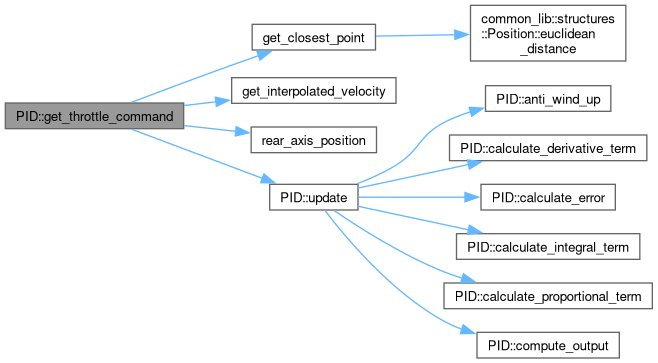
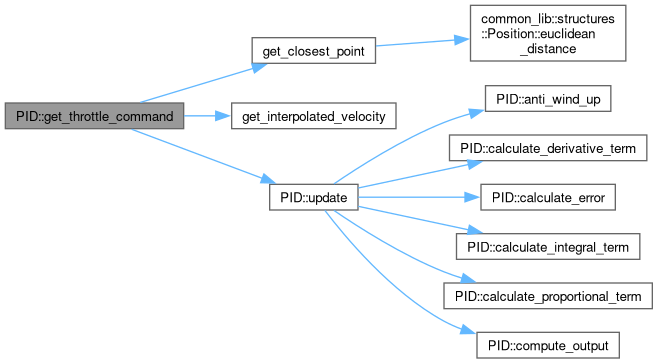
deploy: a8fbd8b8857cc7b3c33410bea2327a715390332d

diff --git a/d8/dcb/pid_8cpp_source.html b/d8/dcb/pid_8cpp_source.html
@@ -242,36 +242,34 @@ $(document).ready(function(){initNavTree('d8/dcb/pid_8cpp_source.html','../../')
 <div class="line"><a id="l00132" name="l00132"></a><span class="lineno">  132</span>  </div>
 <div class="line"><a id="l00133" name="l00133"></a><span class="lineno">  133</span>  <span class="keywordflow">if</span> (this-&gt;<a class="code hl_variable" href="../../d6/d5a/class_p_i_d.html#a7c1fc8d30d96361b38b3f6b07d4a057f">received_first_path_</a> &amp;&amp; this-&gt;<a class="code hl_variable" href="../../d6/d5a/class_p_i_d.html#ab5112bdc37a51bcdf70cd51813acbb83">received_first_state_</a> &amp;&amp; this-&gt;<a class="code hl_variable" href="../../d6/d5a/class_p_i_d.html#a4f56fcd2497d3d86e49d591743343b8b">received_first_pose_</a>) {</div>
 <div class="line"><a id="l00134" name="l00134"></a><span class="lineno">  134</span>    <a class="code hl_struct" href="../../dc/d1b/structcommon__lib_1_1structures_1_1_position.html">Position</a> vehicle_cog = <a class="code hl_struct" href="../../dc/d1b/structcommon__lib_1_1structures_1_1_position.html">Position</a>(this-&gt;<a class="code hl_variable" href="../../d6/d5a/class_p_i_d.html#a5953c6ee999d8be3eabf38df08086206">last_pose_msg_</a>.x, this-&gt;last_pose_msg_.y);</div>
-<div class="line"><a id="l00135" name="l00135"></a><span class="lineno">  135</span>    <a class="code hl_struct" href="../../dc/d1b/structcommon__lib_1_1structures_1_1_position.html">Position</a> rear_axis = <a class="code hl_function" href="../../d1/da2/control_2include_2utils_2utils_8hpp.html#aa4db0590a4eae468aa0a5ebd95003e52">::rear_axis_position</a>(vehicle_cog, this-&gt;<a class="code hl_variable" href="../../d6/d5a/class_p_i_d.html#a5953c6ee999d8be3eabf38df08086206">last_pose_msg_</a>.theta,</div>
-<div class="line"><a id="l00136" name="l00136"></a><span class="lineno">  136</span>        this-&gt;params_-&gt;car_parameters_.cg_2_rear_axis);</div>
-<div class="line"><a id="l00137" name="l00137"></a><span class="lineno">  137</span> </div>
-<div class="line"><a id="l00138" name="l00138"></a><span class="lineno">  138</span>    <span class="keyword">auto</span> [closest_point, closest_point_id, closest_point_velocity] =</div>
-<div class="line"><a id="l00139" name="l00139"></a><span class="lineno">  139</span>        <a class="code hl_function" href="../../d1/da2/control_2include_2utils_2utils_8hpp.html#a5018fa75f5c9f119c4dc9964167970c4">::get_closest_point</a>(this-&gt;<a class="code hl_variable" href="../../d6/d5a/class_p_i_d.html#a2290b64e88f0d346c5b6e8c1869e41ae">last_path_msg_</a>, rear_axis);</div>
-<div class="line"><a id="l00140" name="l00140"></a><span class="lineno">  140</span> </div>
-<div class="line"><a id="l00141" name="l00141"></a><span class="lineno">  141</span>    <span class="keywordflow">if</span> (closest_point_id != -1) {</div>
-<div class="line"><a id="l00142" name="l00142"></a><span class="lineno">  142</span>      this-&gt;<a class="code hl_variable" href="../../d6/d5a/class_p_i_d.html#a34d0395f484814d9bd2049fa1a07dc7c">setpoint_</a> =</div>
-<div class="line"><a id="l00143" name="l00143"></a><span class="lineno">  143</span>          <a class="code hl_function" href="../../d1/da2/control_2include_2utils_2utils_8hpp.html#a2f022cd379d418c3a3edc1a1dd45df6b">::get_interpolated_velocity</a>(this-&gt;<a class="code hl_variable" href="../../d6/d5a/class_p_i_d.html#a2290b64e88f0d346c5b6e8c1869e41ae">last_path_msg_</a>, closest_point_id, rear_axis);</div>
-<div class="line"><a id="l00144" name="l00144"></a><span class="lineno">  144</span>      command.<a class="code hl_variable" href="../../da/d16/structcommon__lib_1_1structures_1_1_control_command.html#a2ec2165113633c9af658dbbdd537552e">throttle_rl</a> = command.<a class="code hl_variable" href="../../da/d16/structcommon__lib_1_1structures_1_1_control_command.html#a7c85532b5bdf8244dc0e99f98e27ca22">throttle_rr</a> = <a class="code hl_function" href="../../d6/d5a/class_p_i_d.html#a6b2e0ee3c86f4106bccac154b8baf65e">update</a>(this-&gt;<a class="code hl_variable" href="../../d6/d5a/class_p_i_d.html#a34d0395f484814d9bd2049fa1a07dc7c">setpoint_</a>, this-&gt;<a class="code hl_variable" href="../../d6/d5a/class_p_i_d.html#a893aca687c9e05b20cb738fa8bfeb7d4">absolute_velocity_</a>);</div>
-<div class="line"><a id="l00145" name="l00145"></a><span class="lineno">  145</span>    }</div>
-<div class="line"><a id="l00146" name="l00146"></a><span class="lineno">  146</span>  }</div>
-<div class="line"><a id="l00147" name="l00147"></a><span class="lineno">  147</span>  </div>
-<div class="line"><a id="l00148" name="l00148"></a><span class="lineno">  148</span>  <span class="keywordflow">return</span> command;</div>
-<div class="line"><a id="l00149" name="l00149"></a><span class="lineno">  149</span>}</div>
+<div class="line"><a id="l00135" name="l00135"></a><span class="lineno">  135</span> </div>
+<div class="line"><a id="l00136" name="l00136"></a><span class="lineno">  136</span>    <span class="keyword">auto</span> [closest_point, closest_point_id, closest_point_velocity] =</div>
+<div class="line"><a id="l00137" name="l00137"></a><span class="lineno">  137</span>        <a class="code hl_function" href="../../d1/da2/control_2include_2utils_2utils_8hpp.html#a5018fa75f5c9f119c4dc9964167970c4">::get_closest_point</a>(this-&gt;<a class="code hl_variable" href="../../d6/d5a/class_p_i_d.html#a2290b64e88f0d346c5b6e8c1869e41ae">last_path_msg_</a>, vehicle_cog);</div>
+<div class="line"><a id="l00138" name="l00138"></a><span class="lineno">  138</span> </div>
+<div class="line"><a id="l00139" name="l00139"></a><span class="lineno">  139</span>    <span class="keywordflow">if</span> (closest_point_id != -1) {</div>
+<div class="line"><a id="l00140" name="l00140"></a><span class="lineno">  140</span>      this-&gt;<a class="code hl_variable" href="../../d6/d5a/class_p_i_d.html#a34d0395f484814d9bd2049fa1a07dc7c">setpoint_</a> =</div>
+<div class="line"><a id="l00141" name="l00141"></a><span class="lineno">  141</span>          <a class="code hl_function" href="../../d1/da2/control_2include_2utils_2utils_8hpp.html#a2f022cd379d418c3a3edc1a1dd45df6b">::get_interpolated_velocity</a>(this-&gt;<a class="code hl_variable" href="../../d6/d5a/class_p_i_d.html#a2290b64e88f0d346c5b6e8c1869e41ae">last_path_msg_</a>, closest_point_id, vehicle_cog);</div>
+<div class="line"><a id="l00142" name="l00142"></a><span class="lineno">  142</span>      command.<a class="code hl_variable" href="../../da/d16/structcommon__lib_1_1structures_1_1_control_command.html#a2ec2165113633c9af658dbbdd537552e">throttle_rl</a> = command.<a class="code hl_variable" href="../../da/d16/structcommon__lib_1_1structures_1_1_control_command.html#a7c85532b5bdf8244dc0e99f98e27ca22">throttle_rr</a> = <a class="code hl_function" href="../../d6/d5a/class_p_i_d.html#a6b2e0ee3c86f4106bccac154b8baf65e">update</a>(this-&gt;<a class="code hl_variable" href="../../d6/d5a/class_p_i_d.html#a34d0395f484814d9bd2049fa1a07dc7c">setpoint_</a>, this-&gt;<a class="code hl_variable" href="../../d6/d5a/class_p_i_d.html#a893aca687c9e05b20cb738fa8bfeb7d4">absolute_velocity_</a>);</div>
+<div class="line"><a id="l00143" name="l00143"></a><span class="lineno">  143</span>    }</div>
+<div class="line"><a id="l00144" name="l00144"></a><span class="lineno">  144</span>  }</div>
+<div class="line"><a id="l00145" name="l00145"></a><span class="lineno">  145</span>  </div>
+<div class="line"><a id="l00146" name="l00146"></a><span class="lineno">  146</span>  <span class="keywordflow">return</span> command;</div>
+<div class="line"><a id="l00147" name="l00147"></a><span class="lineno">  147</span>}</div>
 </div>
-<div class="line"><a id="l00150" name="l00150"></a><span class="lineno">  150</span> </div>
-<div class="foldopen" id="foldopen00151" data-start="{" data-end="}">
-<div class="line"><a id="l00151" name="l00151"></a><span class="lineno"><a class="line" href="../../d6/d5a/class_p_i_d.html#a3bed9f0b83456b2bde4db41790b38957">  151</a></span><span class="keywordtype">void</span> <a class="code hl_function" href="../../d6/d5a/class_p_i_d.html#a3bed9f0b83456b2bde4db41790b38957">PID::publish_solver_data</a>(std::shared_ptr&lt;rclcpp::Node&gt; node, std::map&lt;std::string, std::shared_ptr&lt;rclcpp::PublisherBase&gt;&gt;&amp; publisher_map) {</div>
-<div class="line"><a id="l00152" name="l00152"></a><span class="lineno">  152</span>  <span class="keywordflow">if</span> (publisher_map.find(<span class="stringliteral">&quot;/pid/components&quot;</span>) == publisher_map.end()) {</div>
-<div class="line"><a id="l00153" name="l00153"></a><span class="lineno">  153</span>    <span class="keyword">auto</span> publisher = node-&gt;create_publisher&lt;std_msgs::msg::Float64MultiArray&gt;(</div>
-<div class="line"><a id="l00154" name="l00154"></a><span class="lineno">  154</span>          <span class="stringliteral">&quot;/pid/components&quot;</span>, 10);</div>
-<div class="line"><a id="l00155" name="l00155"></a><span class="lineno">  155</span>    publisher_map[<span class="stringliteral">&quot;/pid/components&quot;</span>] = publisher;</div>
-<div class="line"><a id="l00156" name="l00156"></a><span class="lineno">  156</span>  }</div>
-<div class="line"><a id="l00157" name="l00157"></a><span class="lineno">  157</span> </div>
-<div class="line"><a id="l00158" name="l00158"></a><span class="lineno">  158</span>  <span class="keyword">auto</span> publisher = std::static_pointer_cast&lt;rclcpp::Publisher&lt;std_msgs::msg::Float64MultiArray&gt;&gt;(publisher_map[<span class="stringliteral">&quot;/pid/components&quot;</span>]);</div>
-<div class="line"><a id="l00159" name="l00159"></a><span class="lineno">  159</span>  std_msgs::msg::Float64MultiArray msg;</div>
-<div class="line"><a id="l00160" name="l00160"></a><span class="lineno">  160</span>  msg.data = {this-&gt;<a class="code hl_variable" href="../../d6/d5a/class_p_i_d.html#a34d0395f484814d9bd2049fa1a07dc7c">setpoint_</a>, this-&gt;<a class="code hl_variable" href="../../d6/d5a/class_p_i_d.html#a5c9a04bc4176e30034eba56d950d3989">proportional_</a>, this-&gt;<a class="code hl_variable" href="../../d6/d5a/class_p_i_d.html#a970111f11d61b3ced99bfec483445b1c">integrator_</a>, this-&gt;<a class="code hl_variable" href="../../d6/d5a/class_p_i_d.html#a5b80b0c5f3b2bea7a66f1d881d7d97ab">differentiator_</a>};</div>
-<div class="line"><a id="l00161" name="l00161"></a><span class="lineno">  161</span>  publisher-&gt;publish(msg);</div>
-<div class="line"><a id="l00162" name="l00162"></a><span class="lineno">  162</span>}</div>
+<div class="line"><a id="l00148" name="l00148"></a><span class="lineno">  148</span> </div>
+<div class="foldopen" id="foldopen00149" data-start="{" data-end="}">
+<div class="line"><a id="l00149" name="l00149"></a><span class="lineno"><a class="line" href="../../d6/d5a/class_p_i_d.html#a3bed9f0b83456b2bde4db41790b38957">  149</a></span><span class="keywordtype">void</span> <a class="code hl_function" href="../../d6/d5a/class_p_i_d.html#a3bed9f0b83456b2bde4db41790b38957">PID::publish_solver_data</a>(std::shared_ptr&lt;rclcpp::Node&gt; node, std::map&lt;std::string, std::shared_ptr&lt;rclcpp::PublisherBase&gt;&gt;&amp; publisher_map) {</div>
+<div class="line"><a id="l00150" name="l00150"></a><span class="lineno">  150</span>  <span class="keywordflow">if</span> (publisher_map.find(<span class="stringliteral">&quot;/pid/components&quot;</span>) == publisher_map.end()) {</div>
+<div class="line"><a id="l00151" name="l00151"></a><span class="lineno">  151</span>    <span class="keyword">auto</span> publisher = node-&gt;create_publisher&lt;std_msgs::msg::Float64MultiArray&gt;(</div>
+<div class="line"><a id="l00152" name="l00152"></a><span class="lineno">  152</span>          <span class="stringliteral">&quot;/pid/components&quot;</span>, 10);</div>
+<div class="line"><a id="l00153" name="l00153"></a><span class="lineno">  153</span>    publisher_map[<span class="stringliteral">&quot;/pid/components&quot;</span>] = publisher;</div>
+<div class="line"><a id="l00154" name="l00154"></a><span class="lineno">  154</span>  }</div>
+<div class="line"><a id="l00155" name="l00155"></a><span class="lineno">  155</span> </div>
+<div class="line"><a id="l00156" name="l00156"></a><span class="lineno">  156</span>  <span class="keyword">auto</span> publisher = std::static_pointer_cast&lt;rclcpp::Publisher&lt;std_msgs::msg::Float64MultiArray&gt;&gt;(publisher_map[<span class="stringliteral">&quot;/pid/components&quot;</span>]);</div>
+<div class="line"><a id="l00157" name="l00157"></a><span class="lineno">  157</span>  std_msgs::msg::Float64MultiArray msg;</div>
+<div class="line"><a id="l00158" name="l00158"></a><span class="lineno">  158</span>  msg.data = {this-&gt;<a class="code hl_variable" href="../../d6/d5a/class_p_i_d.html#a34d0395f484814d9bd2049fa1a07dc7c">setpoint_</a>, this-&gt;<a class="code hl_variable" href="../../d6/d5a/class_p_i_d.html#a5c9a04bc4176e30034eba56d950d3989">proportional_</a>, this-&gt;<a class="code hl_variable" href="../../d6/d5a/class_p_i_d.html#a970111f11d61b3ced99bfec483445b1c">integrator_</a>, this-&gt;<a class="code hl_variable" href="../../d6/d5a/class_p_i_d.html#a5b80b0c5f3b2bea7a66f1d881d7d97ab">differentiator_</a>};</div>
+<div class="line"><a id="l00159" name="l00159"></a><span class="lineno">  159</span>  publisher-&gt;publish(msg);</div>
+<div class="line"><a id="l00160" name="l00160"></a><span class="lineno">  160</span>}</div>
 </div>
 <div class="ttc" id="aclass_longitudinal_controller_html"><div class="ttname"><a href="../../da/ded/class_longitudinal_controller.html">LongitudinalController</a></div><div class="ttdoc">Base (abstract) class for longitudinal controllers (the ones that calculate throttle)</div><div class="ttdef"><b>Definition</b> <a href="../../db/d9c/base__longitudinal__controller_8hpp_source.html#l00013">base_longitudinal_controller.hpp:13</a></div></div>
 <div class="ttc" id="aclass_longitudinal_controller_html_aed18a4817f49744473789c6dac393f8c"><div class="ttname"><a href="../../da/ded/class_longitudinal_controller.html#aed18a4817f49744473789c6dac393f8c">LongitudinalController::params_</a></div><div class="ttdeci">std::shared_ptr&lt; ControlParameters &gt; params_</div><div class="ttdef"><b>Definition</b> <a href="../../db/d9c/base__longitudinal__controller_8hpp_source.html#l00015">base_longitudinal_controller.hpp:15</a></div></div>
@@ -279,7 +277,7 @@ $(document).ready(function(){initNavTree('d8/dcb/pid_8cpp_source.html','../../')
 <div class="ttc" id="aclass_p_i_d_html_a2bc53ad753af20ba14ce12fd6b6d93af"><div class="ttname"><a href="../../d6/d5a/class_p_i_d.html#a2bc53ad753af20ba14ce12fd6b6d93af">PID::has_last_update_time_</a></div><div class="ttdeci">bool has_last_update_time_</div><div class="ttdef"><b>Definition</b> <a href="../../d4/db9/pid_8hpp_source.html#l00041">pid.hpp:41</a></div></div>
 <div class="ttc" id="aclass_p_i_d_html_a34d0395f484814d9bd2049fa1a07dc7c"><div class="ttname"><a href="../../d6/d5a/class_p_i_d.html#a34d0395f484814d9bd2049fa1a07dc7c">PID::setpoint_</a></div><div class="ttdeci">double setpoint_</div><div class="ttdoc">Current setpoint value.</div><div class="ttdef"><b>Definition</b> <a href="../../d4/db9/pid_8hpp_source.html#l00035">pid.hpp:35</a></div></div>
 <div class="ttc" id="aclass_p_i_d_html_a3b05685d0075077b1762fc8e611ea0f4"><div class="ttname"><a href="../../d6/d5a/class_p_i_d.html#a3b05685d0075077b1762fc8e611ea0f4">PID::PID</a></div><div class="ttdeci">PID(const ControlParameters &amp;params)</div><div class="ttdoc">Construct a new PID object.</div><div class="ttdef"><b>Definition</b> <a href="../../d8/dcb/pid_8cpp_source.html#l00011">pid.cpp:11</a></div></div>
-<div class="ttc" id="aclass_p_i_d_html_a3bed9f0b83456b2bde4db41790b38957"><div class="ttname"><a href="../../d6/d5a/class_p_i_d.html#a3bed9f0b83456b2bde4db41790b38957">PID::publish_solver_data</a></div><div class="ttdeci">void publish_solver_data(std::shared_ptr&lt; rclcpp::Node &gt; node, std::map&lt; std::string, std::shared_ptr&lt; rclcpp::PublisherBase &gt; &gt; &amp;publisher_map) override</div><div class="ttdoc">Publishes solver specific data using the provided ControlNode.</div><div class="ttdef"><b>Definition</b> <a href="../../d8/dcb/pid_8cpp_source.html#l00151">pid.cpp:151</a></div></div>
+<div class="ttc" id="aclass_p_i_d_html_a3bed9f0b83456b2bde4db41790b38957"><div class="ttname"><a href="../../d6/d5a/class_p_i_d.html#a3bed9f0b83456b2bde4db41790b38957">PID::publish_solver_data</a></div><div class="ttdeci">void publish_solver_data(std::shared_ptr&lt; rclcpp::Node &gt; node, std::map&lt; std::string, std::shared_ptr&lt; rclcpp::PublisherBase &gt; &gt; &amp;publisher_map) override</div><div class="ttdoc">Publishes solver specific data using the provided ControlNode.</div><div class="ttdef"><b>Definition</b> <a href="../../d8/dcb/pid_8cpp_source.html#l00149">pid.cpp:149</a></div></div>
 <div class="ttc" id="aclass_p_i_d_html_a4f56fcd2497d3d86e49d591743343b8b"><div class="ttname"><a href="../../d6/d5a/class_p_i_d.html#a4f56fcd2497d3d86e49d591743343b8b">PID::received_first_pose_</a></div><div class="ttdeci">bool received_first_pose_</div><div class="ttdef"><b>Definition</b> <a href="../../d4/db9/pid_8hpp_source.html#l00030">pid.hpp:30</a></div></div>
 <div class="ttc" id="aclass_p_i_d_html_a5953c6ee999d8be3eabf38df08086206"><div class="ttname"><a href="../../d6/d5a/class_p_i_d.html#a5953c6ee999d8be3eabf38df08086206">PID::last_pose_msg_</a></div><div class="ttdeci">custom_interfaces::msg::Pose last_pose_msg_</div><div class="ttdef"><b>Definition</b> <a href="../../d4/db9/pid_8hpp_source.html#l00025">pid.hpp:25</a></div></div>
 <div class="ttc" id="aclass_p_i_d_html_a5a8397dc4b3e36d1db9ea2f1b8fb91a4"><div class="ttname"><a href="../../d6/d5a/class_p_i_d.html#a5a8397dc4b3e36d1db9ea2f1b8fb91a4">PID::compute_output</a></div><div class="ttdeci">void compute_output()</div><div class="ttdoc">Compute the output value and apply limits.</div><div class="ttdef"><b>Definition</b> <a href="../../d8/dcb/pid_8cpp_source.html#l00104">pid.cpp:104</a></div></div>
@@ -306,7 +304,6 @@ $(document).ready(function(){initNavTree('d8/dcb/pid_8cpp_source.html','../../')
 <div class="ttc" id="aclass_p_i_d_html_afeb910407a0ec97035fd19f97cbfae1c"><div class="ttname"><a href="../../d6/d5a/class_p_i_d.html#afeb910407a0ec97035fd19f97cbfae1c">PID::calculate_proportional_term</a></div><div class="ttdeci">void calculate_proportional_term(double error)</div><div class="ttdoc">Calculate the proportional term.</div><div class="ttdef"><b>Definition</b> <a href="../../d8/dcb/pid_8cpp_source.html#l00083">pid.cpp:83</a></div></div>
 <div class="ttc" id="acontrol_2include_2utils_2utils_8hpp_html_a2f022cd379d418c3a3edc1a1dd45df6b"><div class="ttname"><a href="../../d1/da2/control_2include_2utils_2utils_8hpp.html#a2f022cd379d418c3a3edc1a1dd45df6b">get_interpolated_velocity</a></div><div class="ttdeci">double get_interpolated_velocity(const std::vector&lt; custom_interfaces::msg::PathPoint &gt; &amp;pathpoint_array, int closest_point_id, const common_lib::structures::Position &amp;position)</div><div class="ttdoc">Velocity interpolated at the car's projection onto the path, clamped to the segment.</div><div class="ttdef"><b>Definition</b> <a href="../../da/d3b/control_2src_2utils_2utils_8cpp_source.html#l00039">utils.cpp:39</a></div></div>
 <div class="ttc" id="acontrol_2include_2utils_2utils_8hpp_html_a5018fa75f5c9f119c4dc9964167970c4"><div class="ttname"><a href="../../d1/da2/control_2include_2utils_2utils_8hpp.html#a5018fa75f5c9f119c4dc9964167970c4">get_closest_point</a></div><div class="ttdeci">std::tuple&lt; common_lib::structures::Position, int, double &gt; get_closest_point(const std::vector&lt; custom_interfaces::msg::PathPoint &gt; &amp;pathpoint_array, const common_lib::structures::Position &amp;position)</div><div class="ttdoc">Find the closest point on the path.</div><div class="ttdef"><b>Definition</b> <a href="../../da/d3b/control_2src_2utils_2utils_8cpp_source.html#l00018">utils.cpp:18</a></div></div>
-<div class="ttc" id="acontrol_2include_2utils_2utils_8hpp_html_aa4db0590a4eae468aa0a5ebd95003e52"><div class="ttname"><a href="../../d1/da2/control_2include_2utils_2utils_8hpp.html#aa4db0590a4eae468aa0a5ebd95003e52">rear_axis_position</a></div><div class="ttdeci">common_lib::structures::Position rear_axis_position(const common_lib::structures::Position &amp;cg, double orientation, double dist_cg_2_rear_axis)</div><div class="ttdoc">Calculate rear axis coordinates.</div><div class="ttdef"><b>Definition</b> <a href="../../da/d3b/control_2src_2utils_2utils_8cpp_source.html#l00009">utils.cpp:9</a></div></div>
 <div class="ttc" id="anamespacecommon__lib_1_1structures_html"><div class="ttname"><a href="../../d9/d8a/namespacecommon__lib_1_1structures.html">common_lib::structures</a></div><div class="ttdef"><b>Definition</b> <a href="../../d0/d11/cone_8hpp_source.html#l00010">cone.hpp:10</a></div></div>
 <div class="ttc" id="apid_8hpp_html"><div class="ttname"><a href="../../d4/db9/pid_8hpp.html">pid.hpp</a></div></div>
 <div class="ttc" id="astructcommon__lib_1_1structures_1_1_control_command_html"><div class="ttname"><a href="../../da/d16/structcommon__lib_1_1structures_1_1_control_command.html">common_lib::structures::ControlCommand</a></div><div class="ttdef"><b>Definition</b> <a href="../../d8/dd3/control__command_8hpp_source.html#l00005">control_command.hpp:5</a></div></div>

diff --git a/d6/d5a/class_p_i_d.html b/d6/d5a/class_p_i_d.html
@@ -1048,18 +1048,16 @@ Here is the call graph for this function:</div>
 <div class="center"><img src="../../d6/d5a/class_p_i_d_a92a2db4c3ffd6a0a37ea275d96c55b1c_cgraph.png" border="0" usemap="#ad6/d5a/class_p_i_d_a92a2db4c3ffd6a0a37ea275d96c55b1c_cgraph" alt=""/></div>
 <map name="ad6/d5a/class_p_i_d_a92a2db4c3ffd6a0a37ea275d96c55b1c_cgraph" id="ad6/d5a/class_p_i_d_a92a2db4c3ffd6a0a37ea275d96c55b1c_cgraph">
 <area shape="rect" title="Returns the throttle command calculated by the solver (only throttle)" alt="" coords="5,103,184,129"/>
-<area shape="rect" href="../../da/d3b/control_2src_2utils_2utils_8cpp.html#abc841ff1f30fff8e3601c0eb3c5a952b" title="Find the closest point on the path." alt="" coords="252,24,376,50"/>
-<area shape="poly" title=" " alt="" coords="130,100,231,63,258,53,260,58,233,68,132,105"/>
-<area shape="rect" href="../../da/d3b/control_2src_2utils_2utils_8cpp.html#af3bfb3e0aa5c9f986daab22ec2d83a2e" title="Velocity interpolated at the car&#39;s projection onto the path, clamped to the segment." alt="" coords="232,78,396,103"/>
-<area shape="poly" title=" " alt="" coords="184,103,216,99,216,104,184,108"/>
-<area shape="rect" href="../../da/d3b/control_2src_2utils_2utils_8cpp.html#a9459abdcacae96a282cf61ff8545e8a0" title="Calculate rear axis coordinates." alt="" coords="251,127,377,153"/>
-<area shape="poly" title=" " alt="" coords="184,123,236,129,236,134,184,128"/>
+<area shape="rect" href="../../da/d3b/control_2src_2utils_2utils_8cpp.html#abc841ff1f30fff8e3601c0eb3c5a952b" title="Find the closest point on the path." alt="" coords="252,38,376,63"/>
+<area shape="poly" title=" " alt="" coords="139,100,252,66,254,71,141,105"/>
+<area shape="rect" href="../../da/d3b/control_2src_2utils_2utils_8cpp.html#af3bfb3e0aa5c9f986daab22ec2d83a2e" title="Velocity interpolated at the car&#39;s projection onto the path, clamped to the segment." alt="" coords="232,103,396,129"/>
+<area shape="poly" title=" " alt="" coords="184,113,216,113,216,119,184,119"/>
 <area shape="rect" href="../../d6/d5a/class_p_i_d.html#a6b2e0ee3c86f4106bccac154b8baf65e" title="Calculate the output value." alt="" coords="270,184,358,210"/>
 <area shape="poly" title=" " alt="" coords="133,127,264,176,262,181,131,132"/>
 <area shape="rect" href="../../dc/d1b/structcommon__lib_1_1structures_1_1_position.html#a7ce25e8e5e8c05f720cd644b35134051" title=" " alt="" coords="471,5,626,61"/>
-<area shape="poly" title=" " alt="" coords="376,33,455,32,455,37,376,39"/>
+<area shape="poly" title=" " alt="" coords="376,43,455,37,455,43,376,49"/>
 <area shape="rect" href="../../d6/d5a/class_p_i_d.html#aa587fab53433af6127bbc5c7fdf50a35" title="Anti&#45;wind&#45;up via dynamic integrator clamping." alt="" coords="486,86,611,111"/>
-<area shape="poly" title=" " alt="" coords="356,181,395,163,408,152,418,141,427,131,443,120,470,109,472,114,445,125,431,135,422,145,412,156,397,167,358,186"/>
+<area shape="poly" title=" " alt="" coords="332,182,381,151,443,120,470,111,472,116,445,125,384,155,335,186"/>
 <area shape="rect" href="../../d6/d5a/class_p_i_d.html#adcc75d1df4d4516b707b114d5c08f290" title="Calculate the derivative term (derivative on measurement)" alt="" coords="450,135,647,161"/>
 <area shape="poly" title=" " alt="" coords="358,185,468,162,469,167,359,191"/>
 <area shape="rect" href="../../d6/d5a/class_p_i_d.html#abbd48a33a97a7dbc49e75050bef0146c" title="Calculate the error signal." alt="" coords="481,184,615,210"/>
@@ -1152,7 +1150,7 @@ Here is the call graph for this function:</div>
 
 <p>Implements <a class="el" href="../../da/ded/class_longitudinal_controller.html#aa2445cceff14e90a6c1f53d54429c7ab">LongitudinalController</a>.</p>
 
-<p class="definition">Definition at line <a class="el" href="../../d8/dcb/pid_8cpp_source.html#l00151">151</a> of file <a class="el" href="../../d8/dcb/pid_8cpp_source.html">pid.cpp</a>.</p>
+<p class="definition">Definition at line <a class="el" href="../../d8/dcb/pid_8cpp_source.html#l00149">149</a> of file <a class="el" href="../../d8/dcb/pid_8cpp_source.html">pid.cpp</a>.</p>
 
 </div>
 </div>

diff --git a/d4/db9/pid_8hpp_source.html b/d4/db9/pid_8hpp_source.html
@@ -182,7 +182,7 @@ $(document).ready(function(){initNavTree('d4/db9/pid_8hpp_source.html','../../')
 <div class="ttc" id="aclass_p_i_d_html_a30aad838b9de1fd266e4f579cd3da20c"><div class="ttname"><a href="../../d6/d5a/class_p_i_d.html#a30aad838b9de1fd266e4f579cd3da20c">PID::FRIEND_TEST</a></div><div class="ttdeci">FRIEND_TEST(PidTests, Output2)</div></div>
 <div class="ttc" id="aclass_p_i_d_html_a34d0395f484814d9bd2049fa1a07dc7c"><div class="ttname"><a href="../../d6/d5a/class_p_i_d.html#a34d0395f484814d9bd2049fa1a07dc7c">PID::setpoint_</a></div><div class="ttdeci">double setpoint_</div><div class="ttdoc">Current setpoint value.</div><div class="ttdef"><b>Definition</b> <a href="../../d4/db9/pid_8hpp_source.html#l00035">pid.hpp:35</a></div></div>
 <div class="ttc" id="aclass_p_i_d_html_a37d911cf1d6d758875980266213aa594"><div class="ttname"><a href="../../d6/d5a/class_p_i_d.html#a37d911cf1d6d758875980266213aa594">PID::FRIEND_TEST</a></div><div class="ttdeci">FRIEND_TEST(PidTests, IntegralTerm1)</div></div>
-<div class="ttc" id="aclass_p_i_d_html_a3bed9f0b83456b2bde4db41790b38957"><div class="ttname"><a href="../../d6/d5a/class_p_i_d.html#a3bed9f0b83456b2bde4db41790b38957">PID::publish_solver_data</a></div><div class="ttdeci">void publish_solver_data(std::shared_ptr&lt; rclcpp::Node &gt; node, std::map&lt; std::string, std::shared_ptr&lt; rclcpp::PublisherBase &gt; &gt; &amp;publisher_map) override</div><div class="ttdoc">Publishes solver specific data using the provided ControlNode.</div><div class="ttdef"><b>Definition</b> <a href="../../d8/dcb/pid_8cpp_source.html#l00151">pid.cpp:151</a></div></div>
+<div class="ttc" id="aclass_p_i_d_html_a3bed9f0b83456b2bde4db41790b38957"><div class="ttname"><a href="../../d6/d5a/class_p_i_d.html#a3bed9f0b83456b2bde4db41790b38957">PID::publish_solver_data</a></div><div class="ttdeci">void publish_solver_data(std::shared_ptr&lt; rclcpp::Node &gt; node, std::map&lt; std::string, std::shared_ptr&lt; rclcpp::PublisherBase &gt; &gt; &amp;publisher_map) override</div><div class="ttdoc">Publishes solver specific data using the provided ControlNode.</div><div class="ttdef"><b>Definition</b> <a href="../../d8/dcb/pid_8cpp_source.html#l00149">pid.cpp:149</a></div></div>
 <div class="ttc" id="aclass_p_i_d_html_a4adc1f8e9f533c8f3a8e6641ac7d302c"><div class="ttname"><a href="../../d6/d5a/class_p_i_d.html#a4adc1f8e9f533c8f3a8e6641ac7d302c">PID::FRIEND_TEST</a></div><div class="ttdeci">FRIEND_TEST(PidTests, Output1)</div></div>
 <div class="ttc" id="aclass_p_i_d_html_a4f56fcd2497d3d86e49d591743343b8b"><div class="ttname"><a href="../../d6/d5a/class_p_i_d.html#a4f56fcd2497d3d86e49d591743343b8b">PID::received_first_pose_</a></div><div class="ttdeci">bool received_first_pose_</div><div class="ttdef"><b>Definition</b> <a href="../../d4/db9/pid_8hpp_source.html#l00030">pid.hpp:30</a></div></div>
 <div class="ttc" id="aclass_p_i_d_html_a5953c6ee999d8be3eabf38df08086206"><div class="ttname"><a href="../../d6/d5a/class_p_i_d.html#a5953c6ee999d8be3eabf38df08086206">PID::last_pose_msg_</a></div><div class="ttdeci">custom_interfaces::msg::Pose last_pose_msg_</div><div class="ttdef"><b>Definition</b> <a href="../../d4/db9/pid_8hpp_source.html#l00025">pid.hpp:25</a></div></div>

diff --git a/d1/da2/control_2include_2utils_2utils_8hpp.html b/d1/da2/control_2include_2utils_2utils_8hpp.html
@@ -531,16 +531,14 @@ Here is the caller graph for this function:</div>
 <div class="dyncontent">
 <div class="center"><img src="../../d1/da2/control_2include_2utils_2utils_8hpp_aa4db0590a4eae468aa0a5ebd95003e52_icgraph.png" border="0" usemap="#ad1/da2/control_2include_2utils_2utils_8hpp_aa4db0590a4eae468aa0a5ebd95003e52_icgraph" alt=""/></div>
 <map name="ad1/da2/control_2include_2utils_2utils_8hpp_aa4db0590a4eae468aa0a5ebd95003e52_icgraph" id="ad1/da2/control_2include_2utils_2utils_8hpp_aa4db0590a4eae468aa0a5ebd95003e52_icgraph">
-<area shape="rect" title="Calculate rear axis coordinates." alt="" coords="446,64,571,89"/>
-<area shape="rect" href="../../da/d3b/control_2src_2utils_2utils_8cpp.html#affb99cf5ad23a3e9e3b14b64587fed1e" title="Update Lookahead point." alt="" coords="239,64,379,89"/>
-<area shape="poly" title=" " alt="" coords="430,79,379,79,379,74,430,74"/>
+<area shape="rect" title="Calculate rear axis coordinates." alt="" coords="408,38,533,64"/>
+<area shape="rect" href="../../da/d3b/control_2src_2utils_2utils_8cpp.html#affb99cf5ad23a3e9e3b14b64587fed1e" title="Update Lookahead point." alt="" coords="220,64,360,89"/>
+<area shape="poly" title=" " alt="" coords="393,65,361,69,360,64,392,59"/>
 <area shape="rect" href="../../dc/dde/class_pure_pursuit.html#aa511921b74317316d8e62a5063bb66dd" title="Returns the steering command calculated by the solver." alt="" coords="5,5,172,46"/>
-<area shape="poly" title=" " alt="" coords="441,62,398,54,280,40,172,32,172,27,280,34,398,48,442,57"/>
-<area shape="rect" href="../../d6/d5a/class_p_i_d.html#a92a2db4c3ffd6a0a37ea275d96c55b1c" title="Returns the throttle command calculated by the solver (only throttle)" alt="" coords="220,113,398,139"/>
-<area shape="poly" title=" " alt="" coords="439,96,365,115,363,110,438,91"/>
-<area shape="poly" title=" " alt="" coords="235,62,171,47,173,42,236,57"/>
+<area shape="poly" title=" " alt="" coords="392,49,172,34,172,29,392,43"/>
+<area shape="poly" title=" " alt="" coords="220,62,171,49,173,44,222,57"/>
 <area shape="rect" href="../../dd/d68/control_2test_2utils_2utils__test_8cpp.html#aa527f0a4d89eafe54c175d40ef51193a" title="Test Point Solver &#45; update_lookahead_point()" alt="" coords="61,70,116,96"/>
-<area shape="poly" title=" " alt="" coords="223,82,116,85,116,80,223,76"/>
+<area shape="poly" title=" " alt="" coords="204,82,116,85,116,79,204,77"/>
 </map>
 </div>
 

diff --git a/da/d3b/control_2src_2utils_2utils_8cpp.html b/da/d3b/control_2src_2utils_2utils_8cpp.html
@@ -432,16 +432,14 @@ Here is the caller graph for this function:</div>
 <div class="dyncontent">
 <div class="center"><img src="../../da/d3b/control_2src_2utils_2utils_8cpp_a9459abdcacae96a282cf61ff8545e8a0_icgraph.png" border="0" usemap="#ada/d3b/control_2src_2utils_2utils_8cpp_a9459abdcacae96a282cf61ff8545e8a0_icgraph" alt=""/></div>
 <map name="ada/d3b/control_2src_2utils_2utils_8cpp_a9459abdcacae96a282cf61ff8545e8a0_icgraph" id="ada/d3b/control_2src_2utils_2utils_8cpp_a9459abdcacae96a282cf61ff8545e8a0_icgraph">
-<area shape="rect" title="Calculate rear axis coordinates." alt="" coords="446,64,571,89"/>
-<area shape="rect" href="../../da/d3b/control_2src_2utils_2utils_8cpp.html#affb99cf5ad23a3e9e3b14b64587fed1e" title="Update Lookahead point." alt="" coords="239,64,379,89"/>
-<area shape="poly" title=" " alt="" coords="430,79,379,79,379,74,430,74"/>
+<area shape="rect" title="Calculate rear axis coordinates." alt="" coords="408,38,533,64"/>
+<area shape="rect" href="../../da/d3b/control_2src_2utils_2utils_8cpp.html#affb99cf5ad23a3e9e3b14b64587fed1e" title="Update Lookahead point." alt="" coords="220,64,360,89"/>
+<area shape="poly" title=" " alt="" coords="393,65,361,69,360,64,392,59"/>
 <area shape="rect" href="../../dc/dde/class_pure_pursuit.html#aa511921b74317316d8e62a5063bb66dd" title="Returns the steering command calculated by the solver." alt="" coords="5,5,172,46"/>
-<area shape="poly" title=" " alt="" coords="441,62,398,54,280,40,172,32,172,27,280,34,398,48,442,57"/>
-<area shape="rect" href="../../d6/d5a/class_p_i_d.html#a92a2db4c3ffd6a0a37ea275d96c55b1c" title="Returns the throttle command calculated by the solver (only throttle)" alt="" coords="220,113,398,139"/>
-<area shape="poly" title=" " alt="" coords="439,96,365,115,363,110,438,91"/>
-<area shape="poly" title=" " alt="" coords="235,62,171,47,173,42,236,57"/>
+<area shape="poly" title=" " alt="" coords="392,49,172,34,172,29,392,43"/>
+<area shape="poly" title=" " alt="" coords="220,62,171,49,173,44,222,57"/>
 <area shape="rect" href="../../dd/d68/control_2test_2utils_2utils__test_8cpp.html#aa527f0a4d89eafe54c175d40ef51193a" title="Test Point Solver &#45; update_lookahead_point()" alt="" coords="61,70,116,96"/>
-<area shape="poly" title=" " alt="" coords="223,82,116,85,116,80,223,76"/>
+<area shape="poly" title=" " alt="" coords="204,82,116,85,116,79,204,77"/>
 </map>
 </div>
 
